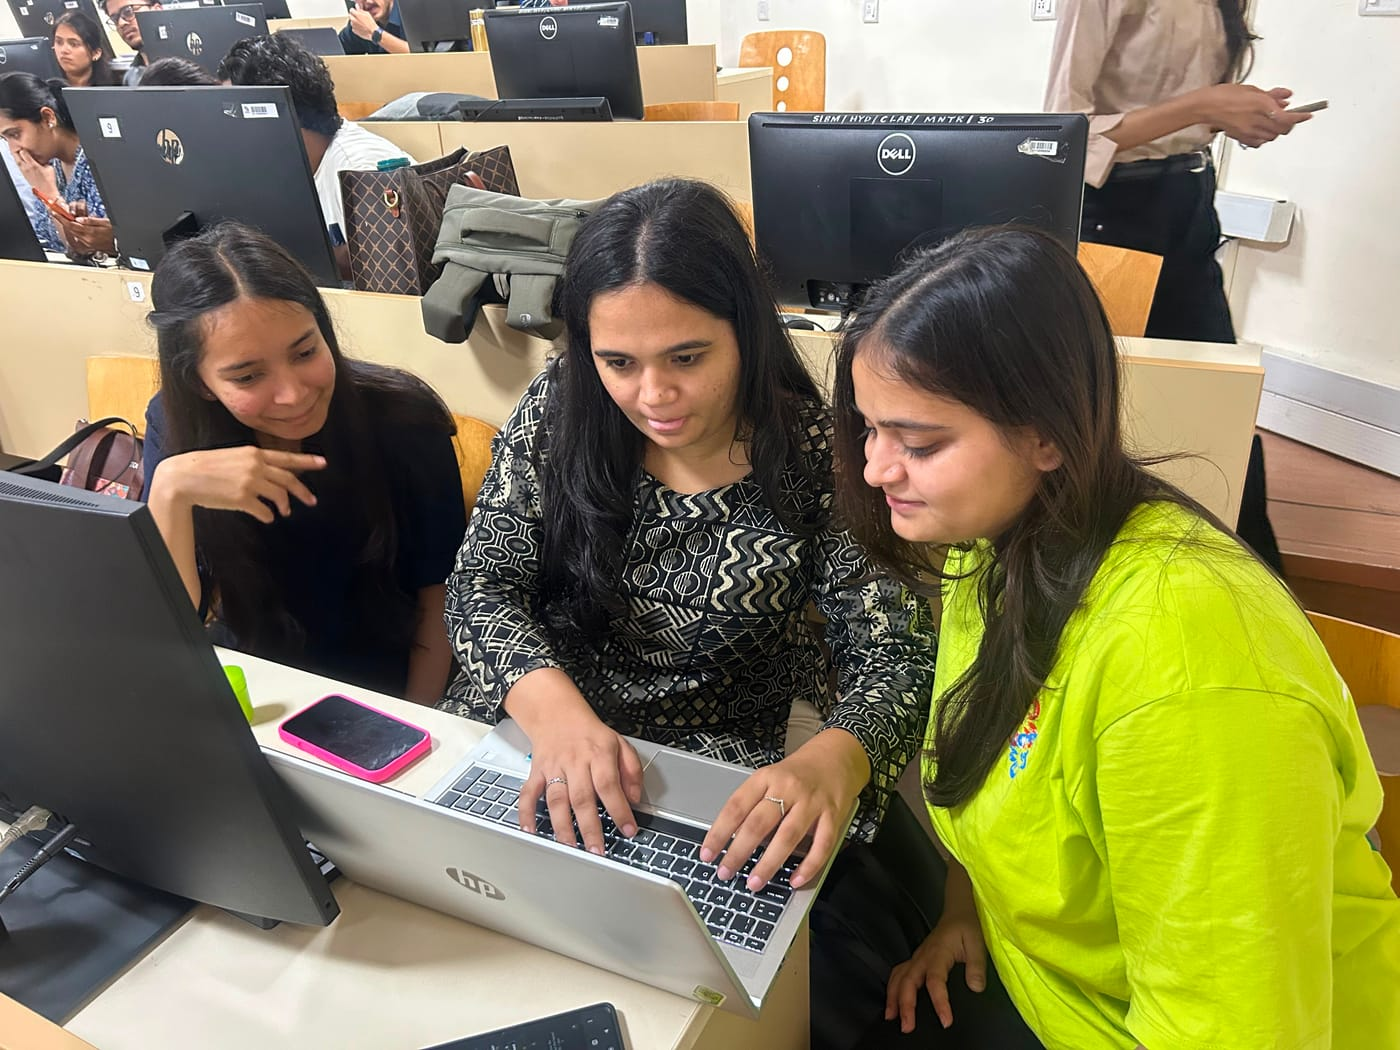
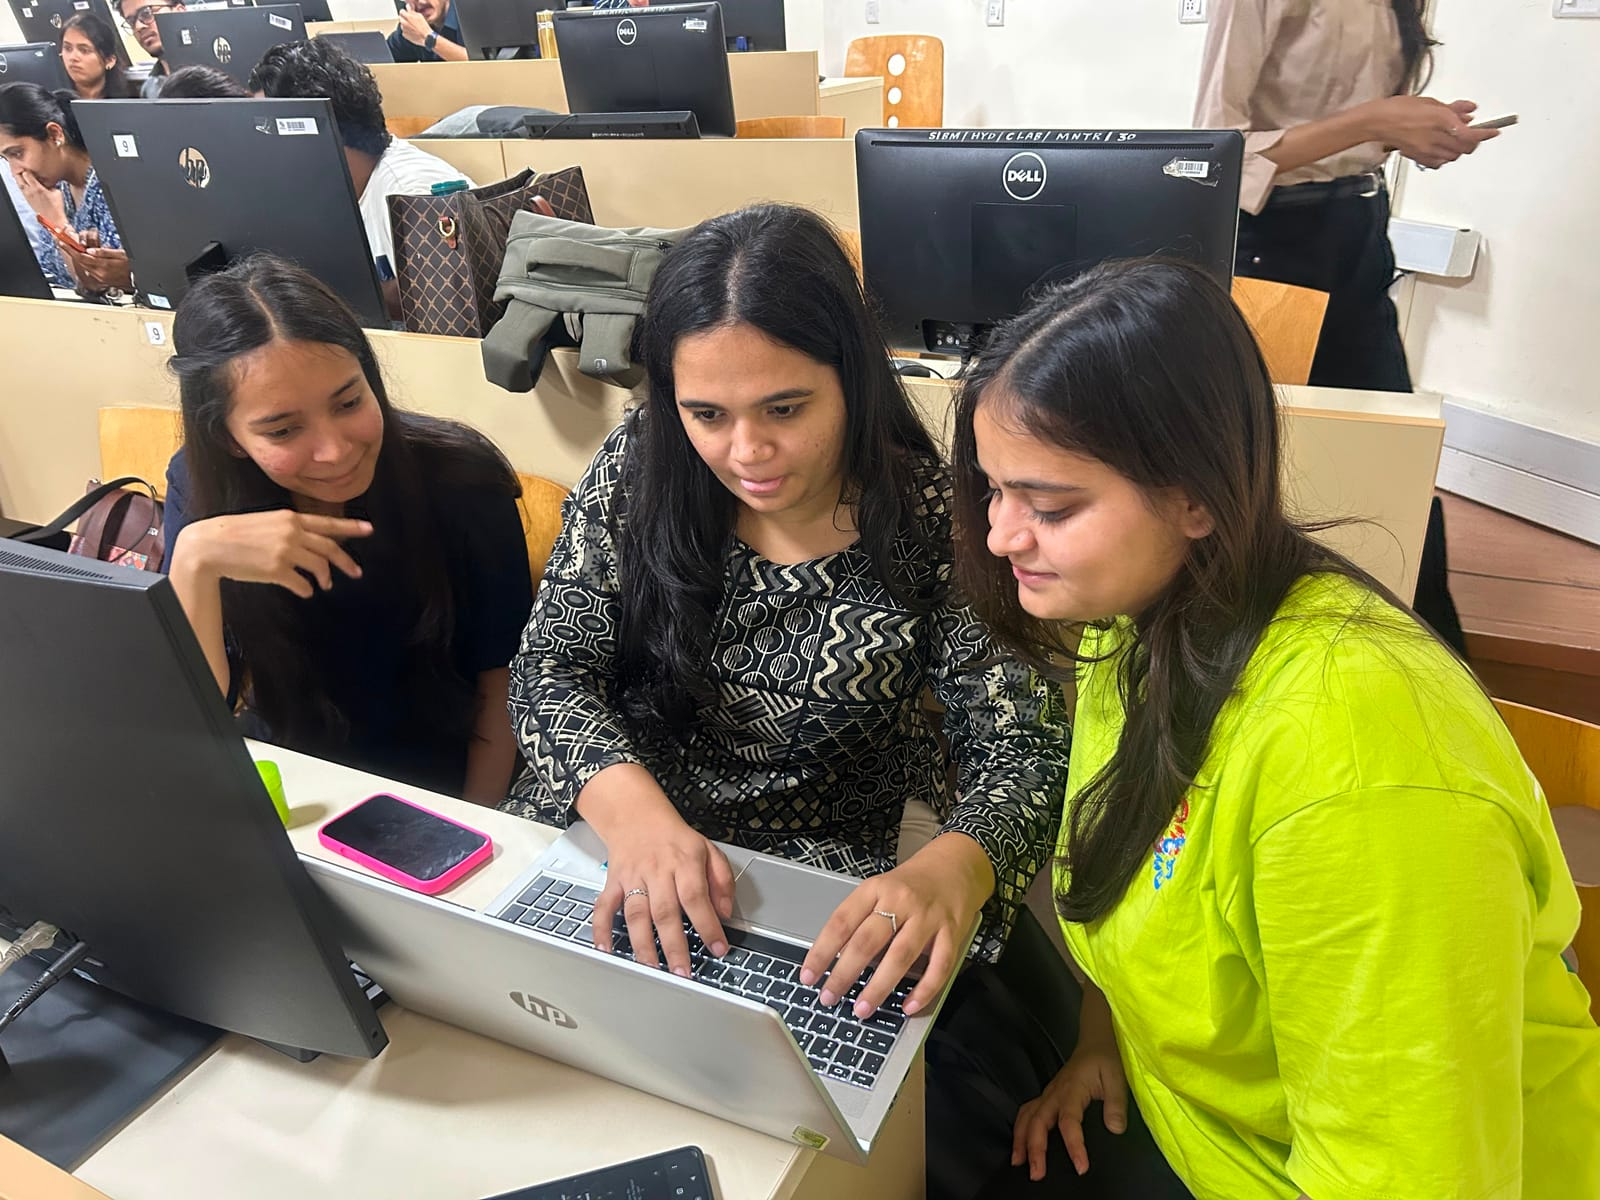
homepage: dedicated masonry Gallery section + all 8 session photos
- move gallery out of the Voices section into its own "Moments from the room"
  section with its own header and nav link (Gallery)
- masonry layout (CSS columns) so mixed landscape/portrait photos keep their
  natural proportions — no awkward cropping; hover zoom + expand overlay
- add 6 more session photos (gallery/3.jpg–8.jpg), reprocess 1–2 at 1600px;
  all compressed (~100–250KB each)
- responsive: 3 columns desktop, 2 on tablet/mobile

diff --git a/src/pages/HomePage.jsx b/src/pages/HomePage.jsx
@@ -138,7 +138,7 @@ const VOICE_QUOTES = [
 ];
 
 // Gallery — put session photos at public/gallery/1.jpg, 2.jpg, … Missing files hide themselves.
-const GALLERY = Array.from({ length: 12 }, (_, i) => `/gallery/${i + 1}.jpg`);
+const GALLERY = Array.from({ length: 8 }, (_, i) => `/gallery/${i + 1}.jpg`);
 
 const initials = (n) =>
   (n || "").split(" ").filter(Boolean).slice(0, 2).map((w) => w[0]).join("").toUpperCase();
@@ -219,6 +219,7 @@ export default function HomePage() {
           <a href="#how">How It Works</a>
           <a href="#simulators">Simulations</a>
           <a href="#voices">Voices</a>
+          <a href="#gallery">Gallery</a>
           <a href="#faq">FAQ</a>
         </div>
         <button className="nav-cta" onClick={() => goTo("simulators")}>
@@ -242,6 +243,7 @@ export default function HomePage() {
           <a onClick={() => goTo("how")}>How It Works</a>
           <a onClick={() => goTo("simulators")}>Simulations</a>
           <a onClick={() => goTo("voices")}>Voices</a>
+          <a onClick={() => goTo("gallery")}>Gallery</a>
           <a onClick={() => goTo("faq")}>FAQ</a>
           <button className="btn-primary btn-lg" onClick={() => goTo("simulators")}>
             Browse Simulations
@@ -497,17 +499,22 @@ export default function HomePage() {
             ))}
           </div>
 
-          {/* session gallery (appears once images are present) */}
-          {Object.values(galleryOk).some(Boolean) && (
-            <div className="section-header reveal" style={{ marginTop: "52px" }}>
-              <div className="section-eyebrow">In the room</div>
-            </div>
-          )}
-          <div className="voice-gallery">
+        </div>
+      </section>
+
+      {/* SESSION GALLERY */}
+      <section id="gallery" className="gallery-section">
+        <div className="container">
+          <div className="section-header reveal">
+            <div className="section-eyebrow">Gallery</div>
+            <h2>Moments from the room</h2>
+            <p>Teams working through the Meridian Retail case — live, together, under the clock.</p>
+          </div>
+          <div className="gallery-grid reveal">
             {GALLERY.map((src, i) => (
               <button
                 key={i}
-                className="voice-tile"
+                className="gallery-tile"
                 style={{ display: galleryOk[i] ? "block" : "none" }}
                 onClick={() => setLightbox(src)}
                 aria-label={`Open session photo ${i + 1}`}
@@ -518,6 +525,7 @@ export default function HomePage() {
                   onLoad={() => setGalleryOk((g) => ({ ...g, [i]: true }))}
                   onError={(e) => { e.currentTarget.parentElement.style.display = "none"; }}
                 />
+                <span className="gallery-tile-overlay" aria-hidden="true">⤢</span>
               </button>
             ))}
           </div>

diff --git a/src/pages/HomePage.css b/src/pages/HomePage.css
@@ -1138,30 +1138,55 @@ section {
   color: #6b7384;
 }
 
-/* session gallery */
-.voice-gallery {
-  display: grid;
-  grid-template-columns: repeat(4, 1fr);
-  gap: 14px;
+/* ================= SESSION GALLERY ================= */
+.gallery-section {
+  background: #0d1120;
 }
-.voice-tile {
+.gallery-grid {
+  column-count: 3;
+  column-gap: 16px;
+}
+.gallery-tile {
+  position: relative;
+  display: block;
+  width: 100%;
   padding: 0;
-  border: none;
+  margin: 0 0 16px;
+  border: 1px solid rgba(255,255,255,0.07);
   border-radius: 14px;
   overflow: hidden;
   cursor: pointer;
-  aspect-ratio: 4 / 3;
   background: rgba(255,255,255,0.03);
+  break-inside: avoid;
+  -webkit-column-break-inside: avoid;
+  transition: border-color 0.25s;
 }
-.voice-tile img {
+.gallery-tile:hover {
+  border-color: rgba(201, 168, 76, 0.5);
+}
+.gallery-tile img {
   width: 100%;
-  height: 100%;
-  object-fit: cover;
+  height: auto;
   display: block;
-  transition: transform 0.35s;
+  transition: transform 0.5s ease;
 }
-.voice-tile:hover img {
-  transform: scale(1.06);
+.gallery-tile:hover img {
+  transform: scale(1.05);
+}
+.gallery-tile-overlay {
+  position: absolute;
+  inset: 0;
+  display: flex;
+  align-items: center;
+  justify-content: center;
+  font-size: 30px;
+  color: #f0ece4;
+  background: linear-gradient(180deg, rgba(13,17,32,0) 40%, rgba(13,17,32,0.55));
+  opacity: 0;
+  transition: opacity 0.3s ease;
+}
+.gallery-tile:hover .gallery-tile-overlay {
+  opacity: 1;
 }
 
 /* lightbox */
@@ -1203,8 +1228,8 @@ section {
   .voice-quotes {
     grid-template-columns: 1fr 1fr;
   }
-  .voice-gallery {
-    grid-template-columns: repeat(3, 1fr);
+  .gallery-grid {
+    column-count: 2;
   }
   .voice-slide {
     padding: 48px 78px;
@@ -1218,8 +1243,12 @@ section {
   .voice-quotes {
     grid-template-columns: 1fr;
   }
-  .voice-gallery {
-    grid-template-columns: 1fr 1fr;
+  .gallery-grid {
+    column-count: 2;
+    column-gap: 12px;
+  }
+  .gallery-tile {
+    margin-bottom: 12px;
   }
   .voice-slide {
     padding: 44px 54px;
